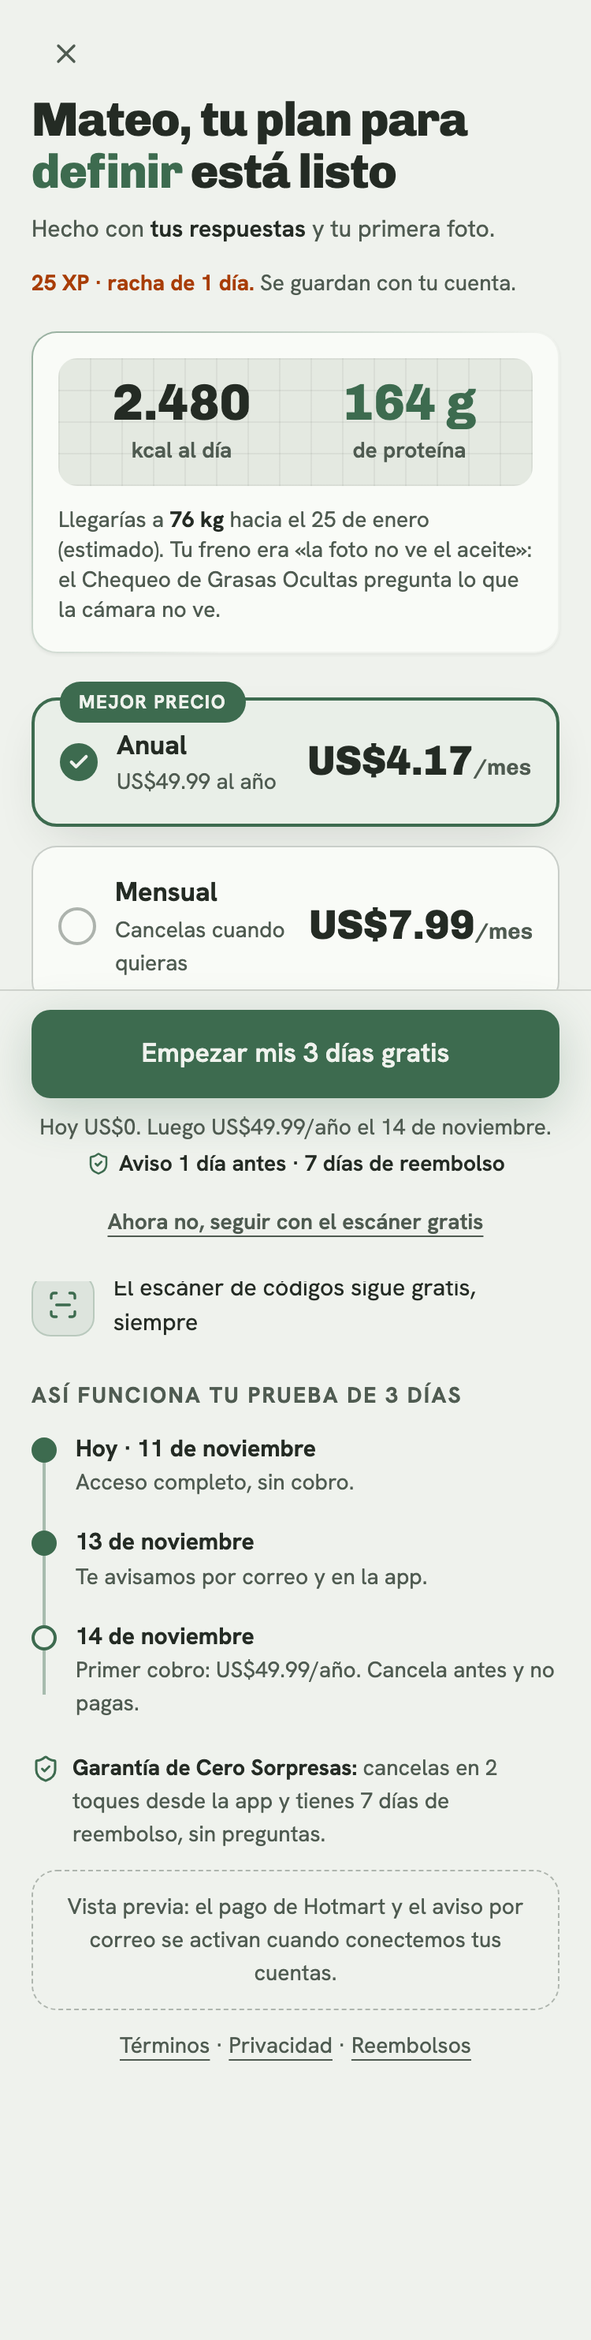
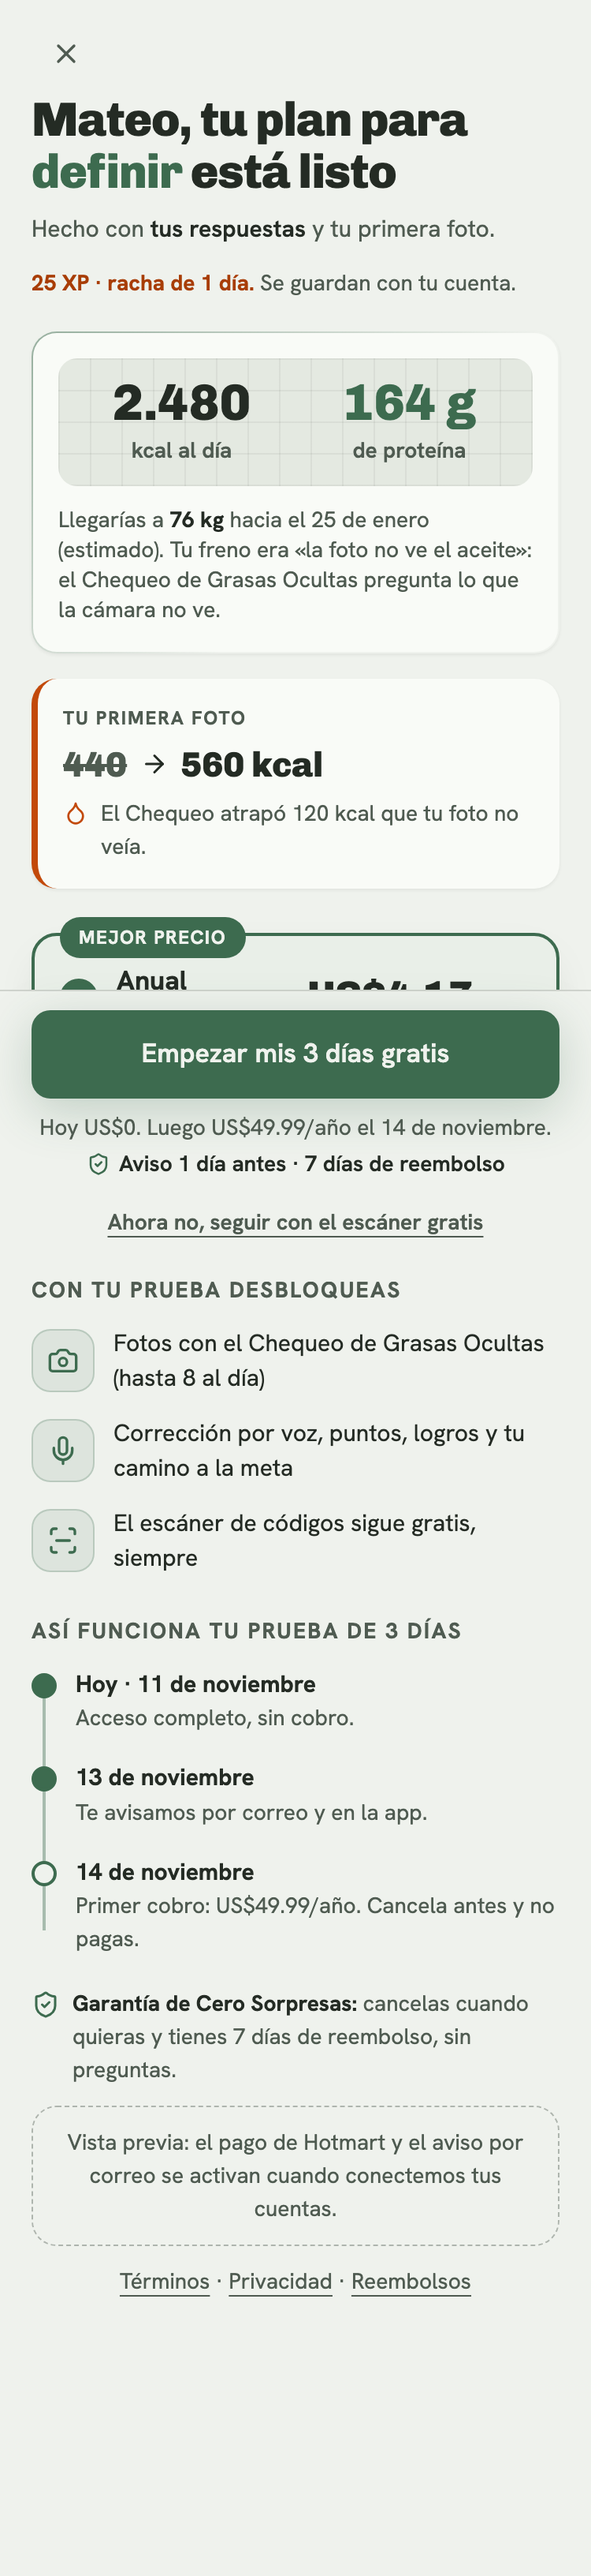
feat: paywall con prueba personal de la primera foto; se retira '2 toques' hasta verificar la cancelación en Hotmart

Changed region(s): [[0.0307, 0.0, 0.9507, 0.8995]]

diff --git a/components/onboarding/Paywall.tsx b/components/onboarding/Paywall.tsx
@@ -4,7 +4,7 @@ import { useEffect, useState } from 'react';
 import Link from 'next/link';
 import { useRouter, useSearchParams } from 'next/navigation';
 import { animate, motion, useReducedMotion } from 'motion/react';
-import { Camera, Check, Mic, ScanLine, ShieldCheck, X } from 'lucide-react';
+import { ArrowRight, Camera, Check, Droplet, Mic, ScanLine, ShieldCheck, X } from 'lucide-react';
 import { BotonPrimario, EASE, PieFijo } from './ui';
 import { calcularPlan, DOLORES, ETIQUETA_OBJETIVO, fechaMeta, perfilCompleto, type Plan } from '@/lib/plan';
 import { leerEstado, type EstadoOnboarding } from '@/lib/onboarding-store';
@@ -102,6 +102,24 @@ export function Paywall() {
         </p>
       </motion.section>
 
+      {estado.resultado && (
+        <motion.section {...entrada(1)} aria-label="Lo que ya atrapaste" className="mt-4 rounded-[var(--radius-card)] border-l-4 border-[var(--accent-2)] bg-[var(--surface)] p-4 shadow-[var(--shadow-1)]">
+          <p className="text-[12px] font-bold uppercase tracking-[0.08em] text-[var(--text-secondary)]">Tu primera foto</p>
+          {estado.resultado.extraAceite > 0 ? (
+            <>
+              <p className="mt-1 flex flex-wrap items-center gap-2 text-[22px] font-extrabold tabular-nums [font-family:var(--font-display)]">
+                <span className="text-[var(--text-secondary)] line-through decoration-2">{estado.resultado.kcalBase}</span>
+                <ArrowRight size={18} aria-hidden="true" />
+                <span>{estado.resultado.kcalBase + estado.resultado.extraAceite} kcal</span>
+              </p>
+              <p className="mt-1 flex items-start gap-2 text-[14px] text-[var(--text-secondary)]"><Droplet size={16} className="mt-0.5 shrink-0 text-[var(--accent-2)]" aria-hidden="true" /> El Chequeo atrapó {estado.resultado.extraAceite} kcal que tu foto no veía.</p>
+            </>
+          ) : (
+            <p className="mt-1 text-[15px]">Registraste tu primera comida en segundos: <strong>{estado.resultado.kcalBase} kcal</strong>.</p>
+          )}
+        </motion.section>
+      )}
+
       <motion.section {...entrada(4)} aria-label="Elige tu plan" className="mt-7 flex flex-col gap-3" role="radiogroup">
         {([
           ['anual', 'Anual', 'US$49.99 al año', 'US$4.17', 'Mejor precio'],
@@ -147,7 +165,7 @@ export function Paywall() {
       </motion.section>
 
       <motion.div {...entrada(5)} className="mt-5 space-y-3 text-[14px] text-[var(--text-secondary)]">
-        <p className="flex items-start gap-2"><ShieldCheck size={18} className="mt-0.5 shrink-0 text-[var(--accent)]" aria-hidden="true" /><span><strong className="font-bold text-[var(--text-primary)]">Garantía de Cero Sorpresas:</strong> cancelas en 2 toques desde la app y tienes 7 días de reembolso, sin preguntas.</span></p>
+        <p className="flex items-start gap-2"><ShieldCheck size={18} className="mt-0.5 shrink-0 text-[var(--accent)]" aria-hidden="true" /><span><strong className="font-bold text-[var(--text-primary)]">Garantía de Cero Sorpresas:</strong> cancelas cuando quieras y tienes 7 días de reembolso, sin preguntas.</span></p>
         <p className="rounded-[var(--radius-card)] border border-dashed border-[color-mix(in_oklab,var(--text-secondary)_40%,transparent)] p-3 text-center">Vista previa: el pago de Hotmart y el aviso por correo se activan cuando conectemos tus cuentas.</p>
         <p className="text-center"><Link href="/terminos" className="underline underline-offset-4">Términos</Link> · <Link href="/privacidad" className="underline underline-offset-4">Privacidad</Link> · <Link href="/reembolsos" className="underline underline-offset-4">Reembolsos</Link></p>
       </motion.div>

diff --git a/app/page.tsx b/app/page.tsx
@@ -136,7 +136,7 @@ export default function Page() {
           notaCta: 'Aviso 1 día antes de cobrar · Reembolso de 7 días',
           features: [
             'Todo lo del plan anual, mes a mes',
-            'Cancelas cuando quieras, en 2 toques',
+            'Cancelas cuando quieras, sin llamar a nadie',
             'El escáner de códigos sigue gratis siempre',
             'Fotos con Chequeo de Grasas Ocultas (hasta 8 al día)',
           ],
@@ -154,7 +154,7 @@ export default function Page() {
       <Faq
         items={[
           { pregunta: '¿La IA no me inventará las calorías?', respuestaMarked: 'Es una estimación y te lo decimos. Por eso el [b]Chequeo de Grasas Ocultas[/b] pregunta lo que la cámara no ve y tú ajustas en segundos.' },
-          { pregunta: '¿Me van a cobrar por sorpresa?', respuestaMarked: 'No. Te avisamos 1 día antes por correo y en la app, cancelas en 2 toques y tienes [b]7 días de reembolso[/b].' },
+          { pregunta: '¿Me van a cobrar por sorpresa?', respuestaMarked: 'No. Te avisamos 1 día antes por correo y en la app, cancelas cuando quieras y tienes [b]7 días de reembolso[/b].' },
           { pregunta: '¿Entiende mis comidas y mi forma de hablar?', respuestaMarked: 'Está pensada para el español de Latinoamérica. Si se equivoca con un plato, lo corriges en segundos y [b]aprende tus costumbres[/b].' },
           { pregunta: '¿Y si la dejo a los 3 días?', respuestaMarked: 'Por eso hay racha, puntos y logros que muestran tu avance, sin presión. Si una racha se rompe, tienes 48 horas para recuperarla.' },
           { pregunta: '¿El escáner de códigos es gratis?', respuestaMarked: 'Sí, sin límite de tiempo. La foto con chequeo, la voz y el historial son de pago.' },

diff --git a/ESTADO.md b/ESTADO.md
@@ -117,6 +117,8 @@ Registro de calorías y macros por FOTO con IA + corrección por VOZ + escáner 
 - Paywall: CTA fijo abajo con precio y fecha de cobro, timeline con fechas reales, garantía nombrada, textos ≥14px, enlaces legales. Pago real (Hotmart) y aviso por correo = vista previa honesta (Sesión 6); 'Continuar con Google' se agrega con la auth real.
 - Verificado: tsc ✓ build ✓ · flujo completo por Playwright a 375px (scripts/flujo-onboarding.mjs) sin errores de consola · capturas en docs/revisiones/flujo/. Veredictos del revisor (1ª pasada: onboarding 29/12/14, paywall 27/14/13, NO LISTA) → 2ª revisión pendiente tras los cambios.
 
+- Análisis de la propuesta de Gemini sobre paywall (2026-11-11): YA TENÍAMOS ubicación tras el quiz, timeline de prueba, anual como $/mes, titular con nombre+meta, CTA de prueba gratis. ADOPTADO: prueba personal (tu primera foto 440→560) en vez de reseña. RECHAZADO: precios US$39.99/6.99 (no pasan margen), reseña 5★ inventada, cancelar 'en 1 toque desde la App Store/Play Store' (somos web + Hotmart), RevenueCat/Superwall/Adapty (SDK de apps de tienda: el equivalente web son feature flags/experimentos, archivo 37, Sesión 8), estadísticas sin fuente (5x, +30% LATAM). RIESGO ANOTADO: la promesa 'cancela cuando quieras' debe verificarse con el flujo REAL de cancelación de Hotmart (18) antes de lanzar; se retiró '2 toques' de los textos hasta confirmarlo.
+
 ## Sesiones completadas ✅
 - Instalación del SO (v6.10.0) y punto de guardado git — 2026-11-03
 - Sesión 2 — identidad visual (A/B/C → combinación A+B, tour aprobado, FICHA-ARTE) — 2026-11-03

diff --git a/docs/copy/landing.md b/docs/copy/landing.md
@@ -50,7 +50,7 @@
 
 ## 8. FAQ (objeciones de la ficha, en orden de fuerza)
 1. ¿La IA no me inventará las calorías? — Es una estimación y te lo decimos. Por eso el [b]Chequeo de Grasas Ocultas[/b] pregunta lo que la cámara no ve y tú ajustas en segundos.
-2. ¿Me van a cobrar por sorpresa? — No. Te avisamos 1 día antes por correo y en la app, cancelas en 2 toques y tienes [b]7 días de reembolso[/b].
+2. ¿Me van a cobrar por sorpresa? — No. Te avisamos 1 día antes por correo y en la app, cancelas cuando quieras y tienes [b]7 días de reembolso[/b].
 3. ¿Entiende mis comidas y mi forma de hablar? — Está pensada para el español de Latinoamérica. Si se equivoca con un plato, lo corriges en segundos y [b]aprende tus costumbres[/b].
 4. ¿Y si la dejo a los 3 días? — Por eso hay racha, puntos y logros que muestran tu avance, sin presión. Si una racha se rompe, tienes 48 horas para recuperarla.
 5. ¿El escáner de códigos es gratis? — Sí, sin límite de tiempo. La foto con chequeo, la voz y el historial son de pago.

diff --git a/FICHA-AVATAR.md b/FICHA-AVATAR.md
@@ -35,7 +35,7 @@
 
 ## Objeciones (con respuesta y destino)
 1. "¿Otra IA que inventa calorías?" → demo del chequeo: la app pregunta lo que no ve; rango, no falsa exactitud → hero + demo
-2. "¿Me van a cobrar por sorpresa?" (la queja #1 contra Fitia/MFP) → aviso 1 día antes del cobro, cancelar en 2 toques, garantía → microcopy bajo CTA + paywall + FAQ
+2. "¿Me van a cobrar por sorpresa?" (la queja #1 contra Fitia/MFP) → aviso 1 día antes del cobro, cancelar cuando quiera (sin llamar a nadie), garantía → microcopy bajo CTA + paywall + FAQ
 3. "¿El onboarding me va a hacer 15 minutos de preguntas para pedirme pagar?" → 3 preguntas y primer análisis gratis antes del pago → onboarding
 4. "Voy a usarla 3 días y borrarla" → racha + reporte semanal de "grasas atrapadas" → loop de retención
 5. Pago LATAM: "¿es seguro / puedo pagar en mi moneda?" → Hotmart (a definir medios por país) → microcopy + FAQ
